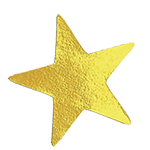
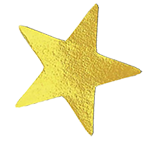
adjusted star placement

diff --git a/main.css b/main.css
@@ -207,8 +207,8 @@ footer ul {
 
 .star {
 	position: absolute;
-	right: -60px;
-	top: 15px;
+	right: -65px;
+	top: 10px;
 	width: 100px;
 	height: 100px;
 	background: url(images/star.png);
